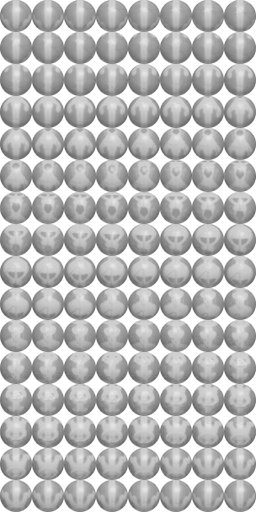
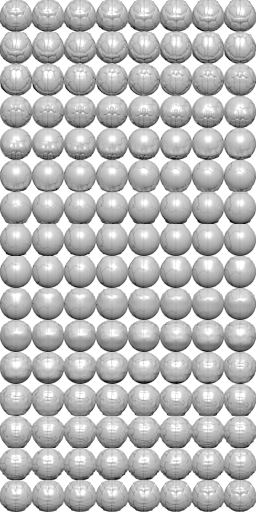
added ball types definition in world and used those instead of colors changed ball animation to test different animation colors added some new levels
git-svn-id: file:///d/Documents/workspace/gemserksvn/var/svn/games@319 1dcdb8b7-3cac-4752-9c2b-54fd448f9028

diff --git a/zombierockers/trunk/main/src/main/java/Game.java b/zombierockers/trunk/main/src/main/java/Game.java
@@ -9,7 +9,6 @@ import org.newdawn.slick.Animation;
 import org.newdawn.slick.AppGameContainer;
 import org.newdawn.slick.GameContainer;
 import org.newdawn.slick.Graphics;
-import org.newdawn.slick.Image;
 import org.newdawn.slick.SlickException;
 import org.newdawn.slick.SpriteSheet;
 import org.newdawn.slick.state.StateBasedGame;
@@ -80,12 +79,13 @@ public class Game extends StateBasedGame {
 
 	/**
 	 * Temporal method to load an animation specifying total frames from a spritesheet.
+	 * 
 	 * @return
 	 */
 	private Animation createAnimation(final SpriteSheet spriteSheet, int totalFrames, boolean autoUpdate) {
 		Animation animation = new Animation();
 		animation.setAutoUpdate(autoUpdate);
-		
+
 		int horizontalCant = spriteSheet.getHorizontalCount();
 		int verticalCant = spriteSheet.getVerticalCount();
 
@@ -99,7 +99,7 @@ public class Game extends StateBasedGame {
 
 		return animation;
 	}
-	
+
 	class GameGameState extends GemserkGameState {
 
 		@Override
@@ -107,20 +107,11 @@ public class Game extends StateBasedGame {
 			super.onInit();
 			images(injector, "assets/images.properties");
 
-			try {
-				AnimationManager animationManager = injector.getInstance(AnimationManager.class);
-				final SpriteSheet ballSpriteSheet = new SpriteSheet(new Image("assets/images/ball_animation.png"), 32, 32);
-				animationManager.addAnimation("ballanimation", new AnimationInstantiator() {
-					@Override
-					public Animation instantiate() {
-						// should be specified in the animations.properties (TODO)
-						return createAnimation(ballSpriteSheet, 128, false);
-					}
-
-				});
-			} catch (SlickException e) {
-				throw new RuntimeException("failed to load animation", e);
-			}
+			AnimationManager animationManager = injector.getInstance(AnimationManager.class);
+//			addAnimation("assets/images/ball_animation_red.png", "ballanimation_red", animationManager);
+//			addAnimation("assets/images/ball_animation_blue.png", "ballanimation_blue", animationManager);
+//			addAnimation("assets/images/ball_animation_green.png", "ballanimation_green", animationManager);
+			addAnimation("assets/images/ball_animation.png", "ballanimation_white", animationManager);
 
 			injector.getInstance(BuilderUtils.class).addCustomUtil("components", new Object() {
 				public Component closureComponent(String id, Closure closure) {
@@ -128,6 +119,24 @@ public class Game extends StateBasedGame {
 				}
 			});
 
+		}
+
+		// temporal method to load different ball animations 
+		private void addAnimation(String animationFile, String animationKey, AnimationManager animationManager) {
+			try {
+				
+				final SpriteSheet ballSpriteSheet = new SpriteSheet(animationFile, 32, 32);
+				animationManager.addAnimation(animationKey, new AnimationInstantiator() {
+					@Override
+					public Animation instantiate() {
+						// should be specified in the animations.properties (TODO)
+						return createAnimation(ballSpriteSheet, 128, false);
+					}
+				});
+
+			} catch (SlickException e) {
+				throw new RuntimeException("failed to load animation", e);
+			}
 		}
 
 		public GameGameState(int id) {
